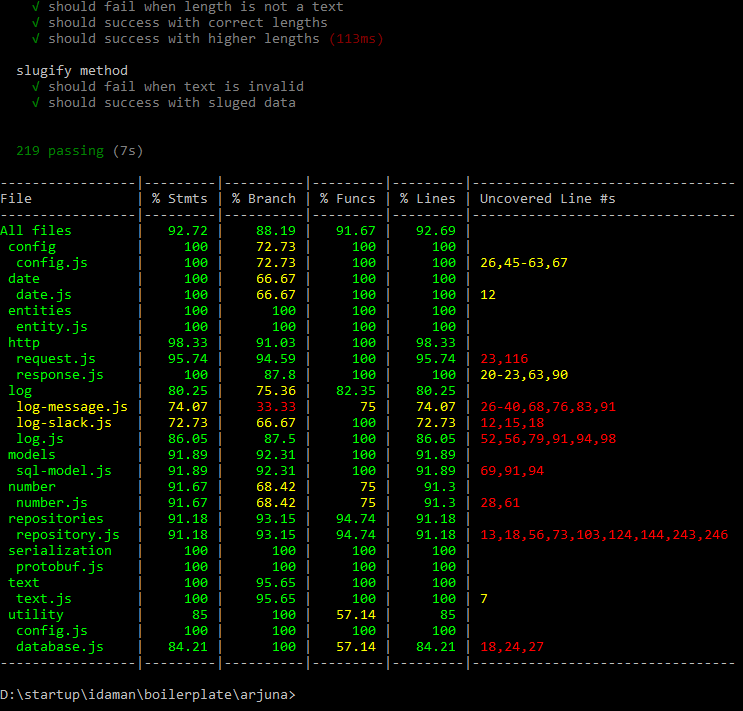
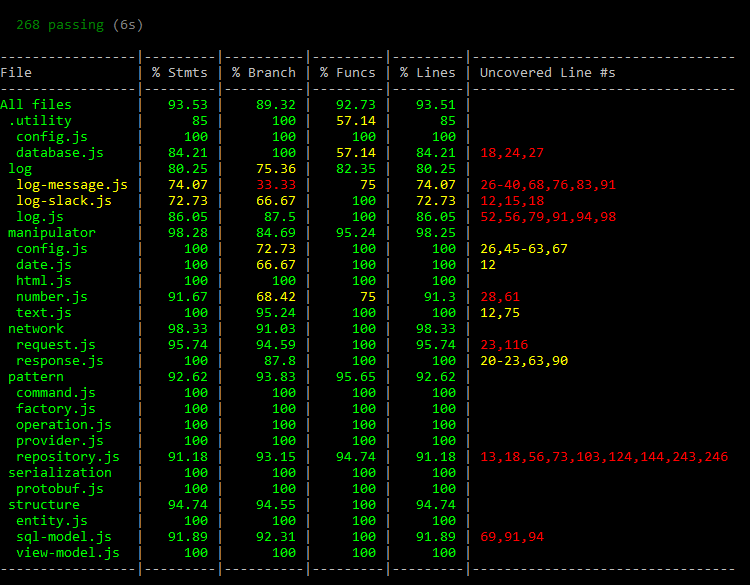
[CHG] ss, fix testcase dir

Changed region(s): [[0.0, 0.0923, 0.9906, 0.9846], [0.031, 0.0, 0.5262, 0.0615]]

diff --git a/.tests/unit/log/log.localReport.test.js b/.tests/unit/log/log.localReport.test.js
@@ -48,7 +48,7 @@ describe('log localReport method', function() {
     expect(function() { 
       Log.localReport({
         data: 'should fail when no messengers logDirectory passed',
-        logDirectory: 'utility/storage'
+        logDirectory: '.utility/storage'
       });
     }).to.throw('Invalid params');
   });
@@ -59,7 +59,7 @@ describe('log localReport method', function() {
     });
     Log.localReport({
       data: message,
-      logDirectory: 'utility/storage'
+      logDirectory: '.utility/storage'
     });
   }); 
 

diff --git a/.tests/unit/log/log.report.test.js b/.tests/unit/log/log.report.test.js
@@ -50,7 +50,7 @@ describe('log report method', function() {
       messengers: [
         'local'
       ],
-      logDirectory: 'utility/storage'
+      logDirectory: '.utility/storage'
     });
   });
 
@@ -62,7 +62,7 @@ describe('log report method', function() {
       messengers: [
         'local'
       ],
-      logDirectory: 'utility/storage',
+      logDirectory: '.utility/storage',
     });
   }); 
 

diff --git a/.tests/integration/log/log.report.test.js b/.tests/integration/log/log.report.test.js
@@ -39,7 +39,7 @@ describe('log report method', function() {
       messengers: [
         'local', 'online'
       ],
-      logDirectory: 'utility/storage',
+      logDirectory: '.utility/storage',
       endpoint: logSlack.webhook_url
     });
   });
